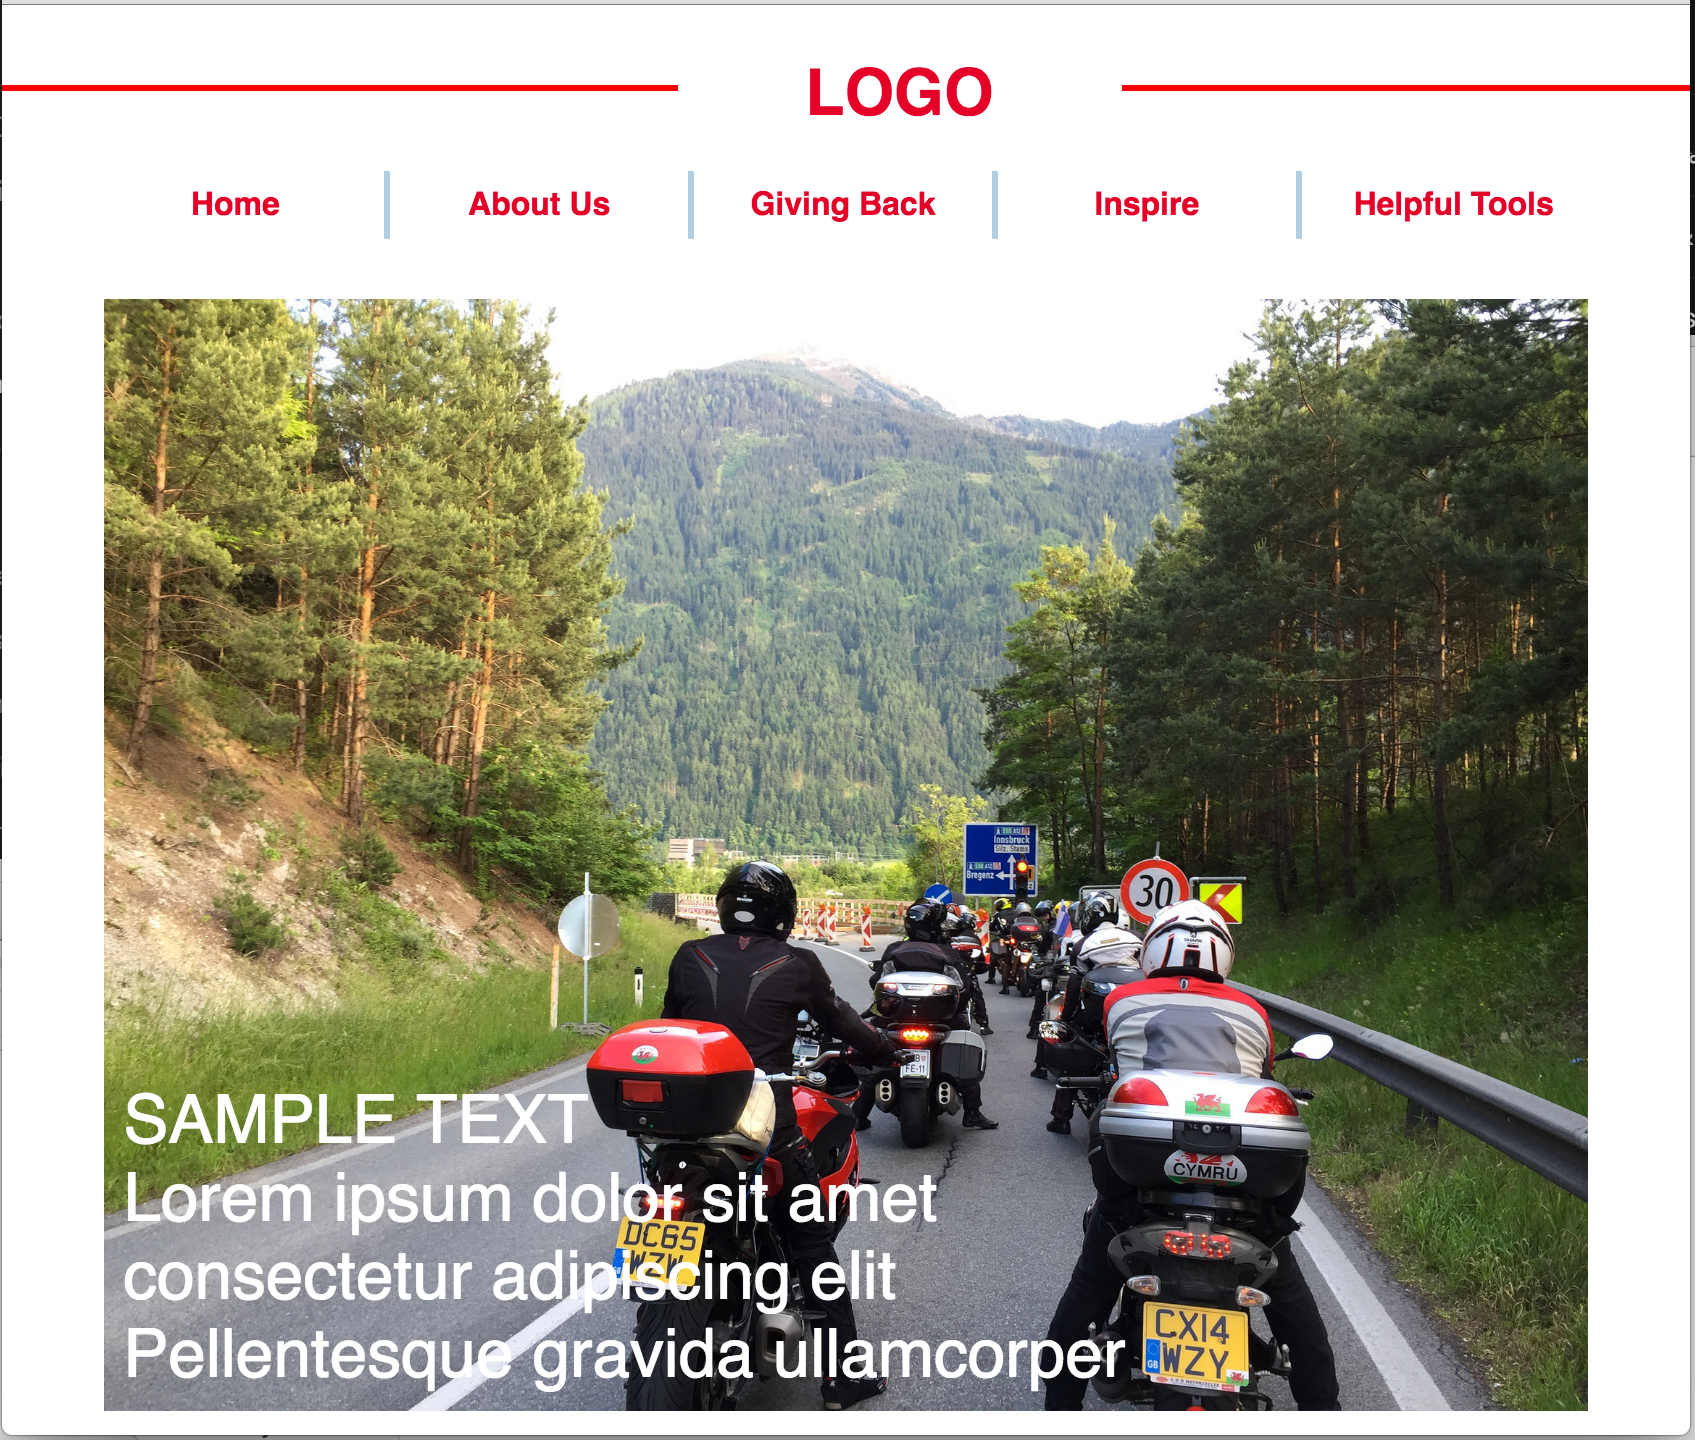
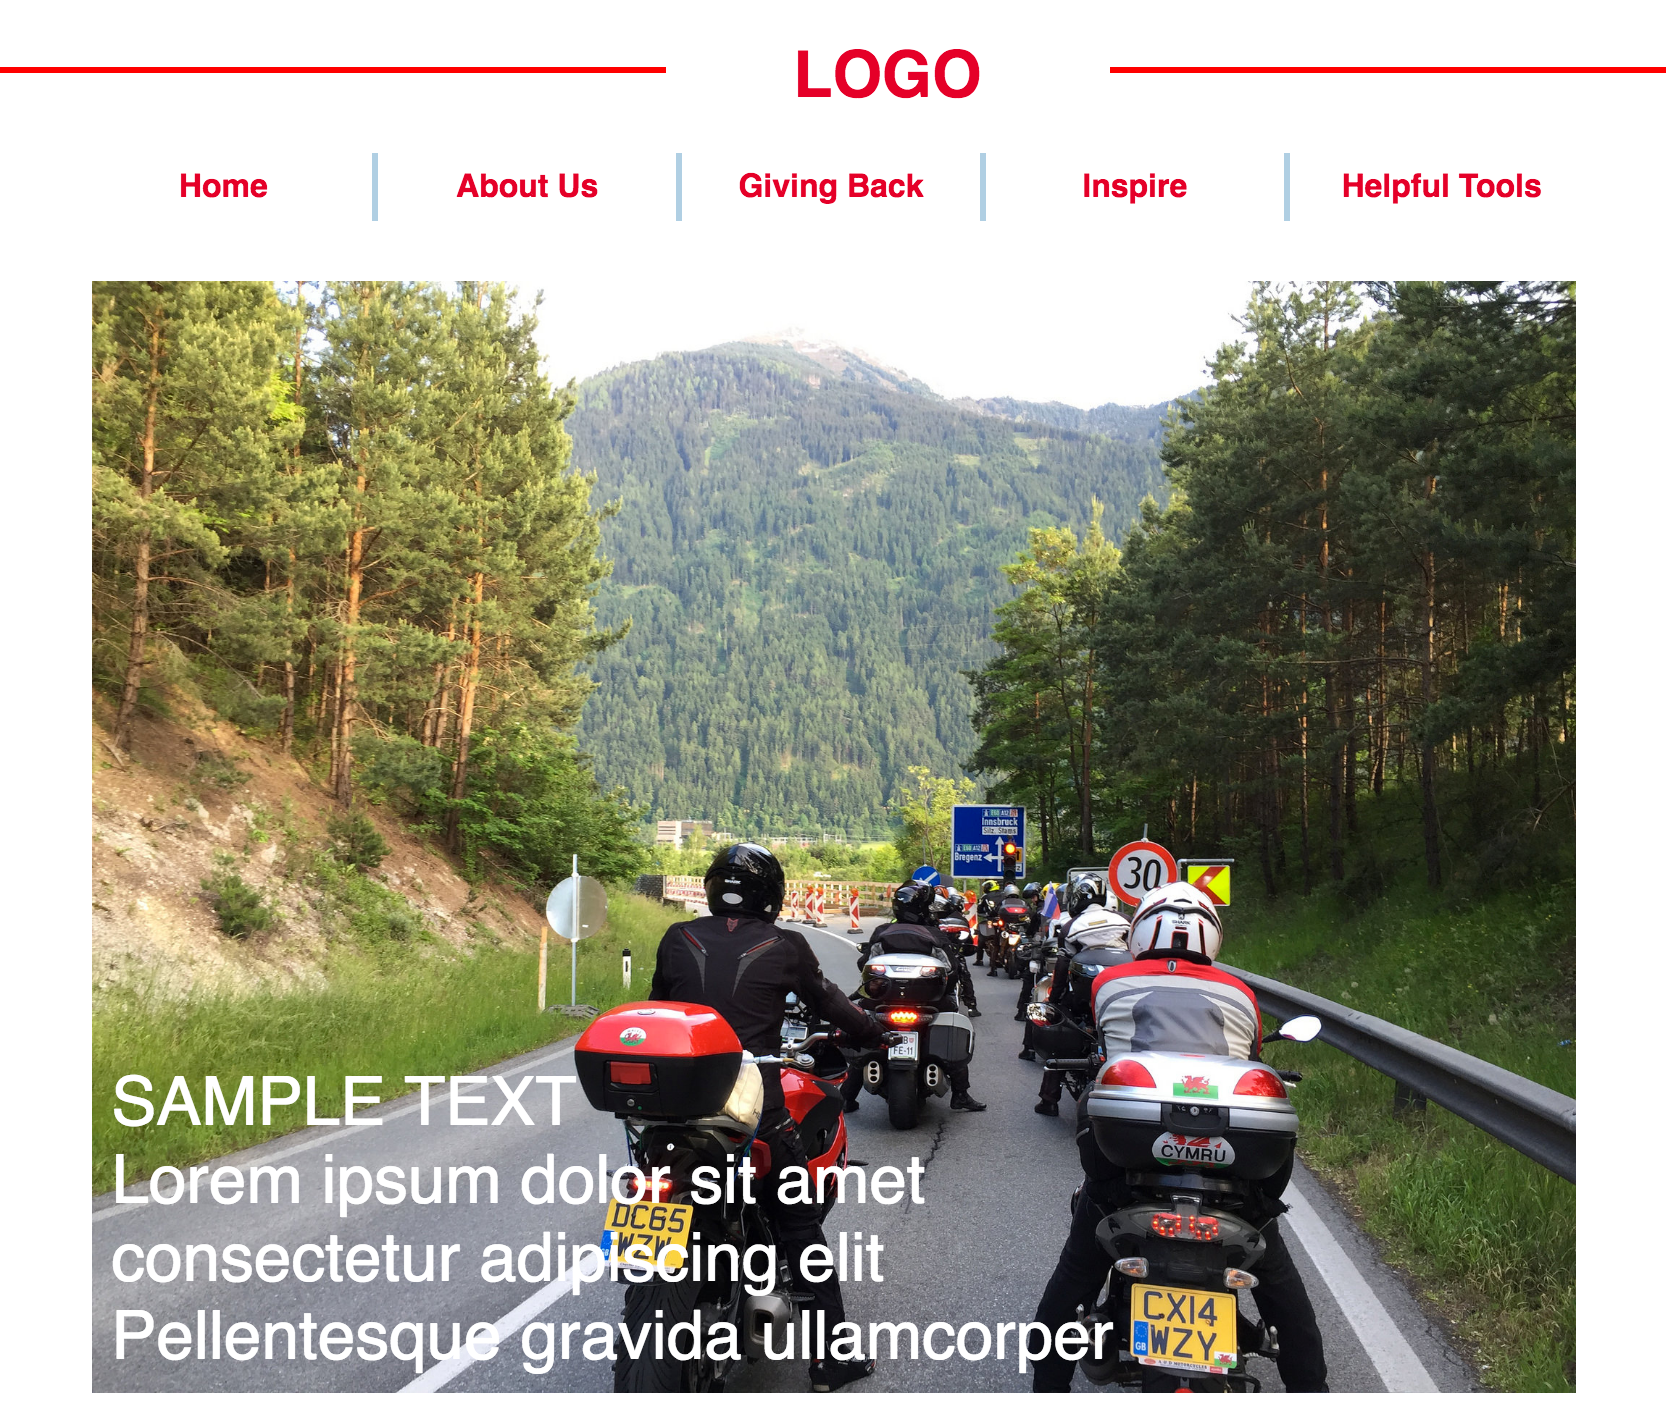
added img of myself, fixed alignment of preview images and nav

diff --git a/My_personal_site/index.html b/My_personal_site/index.html
@@ -39,7 +39,7 @@
 			</div>
 		</div>
 		<div class='portfolio'>
-			<h1 id='portfolio'>Examples of Projects</h1>
+			<h1 id='portfolio'>Project Examples</h1>
 			<div class='row-1 img-container'>
 				<img class='tourist col-xs-12 col-md-4' src='Images/Travel_SC.png'>
 				<img class='home col-xs-12 col-md-4' src='Images/Home_SC.png'>
@@ -47,7 +47,7 @@
 			</div>
 		</div>
 		<div id='about' class='col-md-6'>
-			<p>Fredrick is a passionate Self-Starter that has learned a variety of different IT technologies from HTML and Javascript to Python through textbook, documentation, and experiemental programming on his own free time. <br> <br> Previous years of work within the hospitality industry also gives him exceptional skills at quickly adapting to a client's need as well as instilling the idea that communication should be of utmost priority within any project. </p>
+			<p><img class='ricky'src="Images/Ricky.jpg">Fredrick is a passionate Self-Starter that has learned a variety of different IT technologies from HTML and Javascript to Python through textbook, documentation, and experiemental programming on his own free time. <br> <br> Previous years of work within the hospitality industry also gives him exceptional skills at quickly adapting to a client's need as well as instilling the idea that communication should be of utmost priority within any project. </p>
 		</div>
 		<div id='links' class='col-xs-12 col-md-6'>
 			<div class='git-wrapper col-xs-6'>

diff --git a/My_personal_site/style.css b/My_personal_site/style.css
@@ -5,9 +5,29 @@
 }
 
 .fa-github, .fa-envelope{
-	font-size: 2em;
+	font-size: 2.5em;
 }
 
 #links, #about {
-	margin-top: 2em
+	margin-top: 4em;
+}
+
+.portfolio h1 {
+	margin-bottom: 2em;
+}
+
+.navbar {
+	margin-bottom: 0
+}
+
+.ricky {
+	height: 10em;
+	float: left;
+	margin-right: 1em;
+}
+
+@media (max-width: 990px) {
+	.portfolio img {
+		margin-bottom: 10em;
+	}
 }
